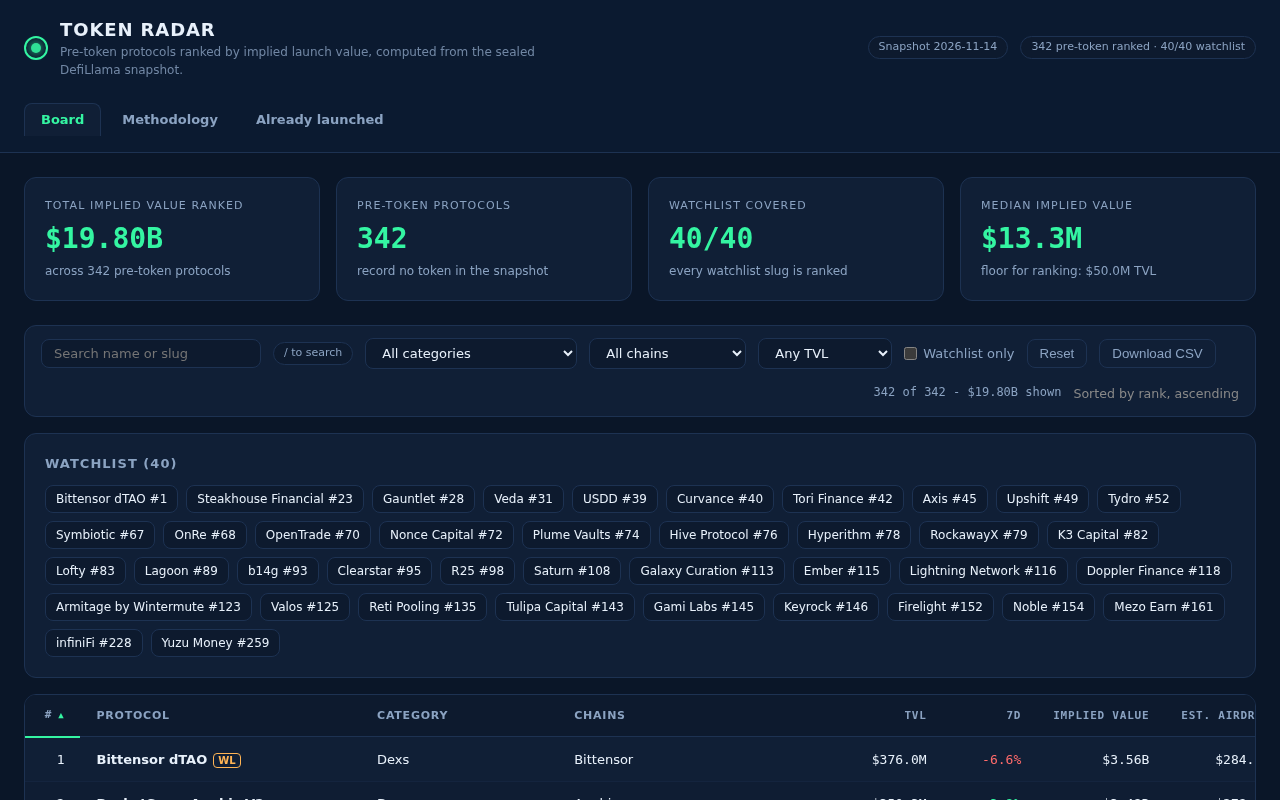
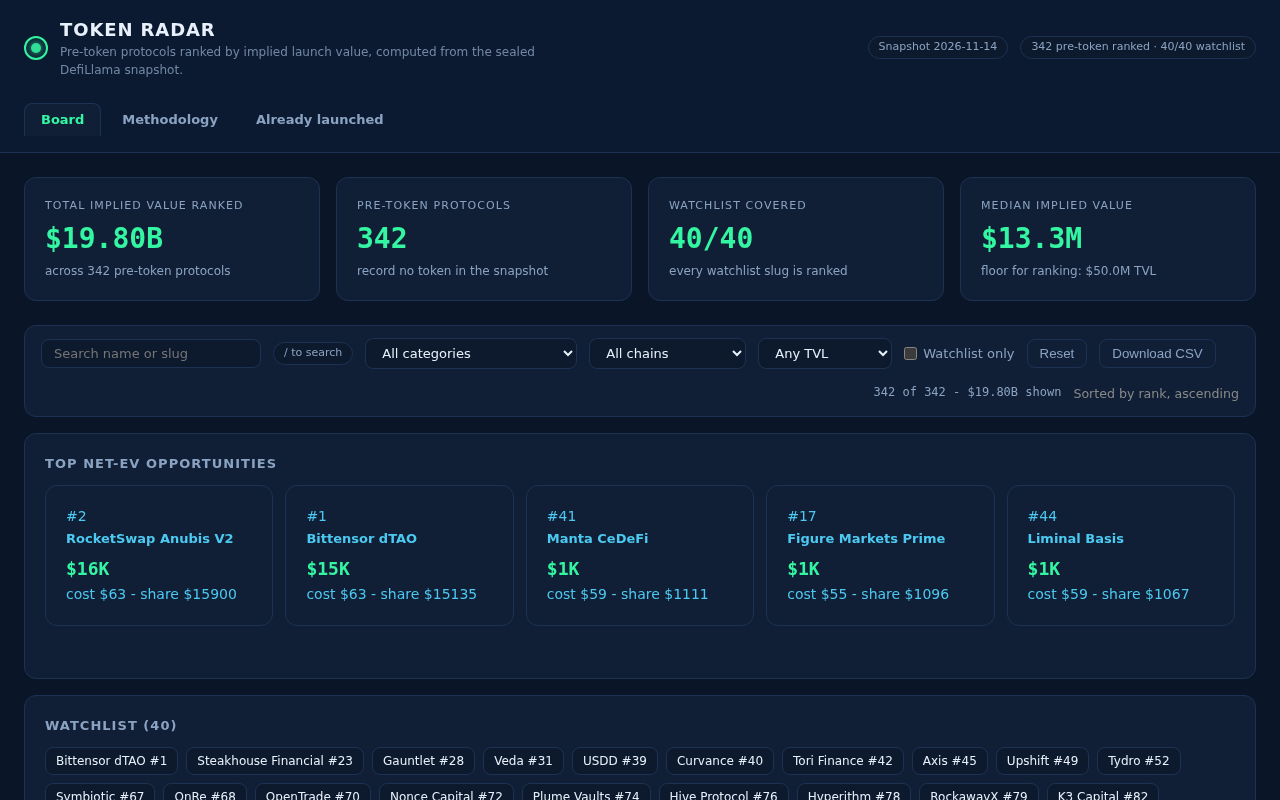
v3: top net-EV opportunities panel + fix bootstrap wiring in radar data + backtest pct display (recorded sessions)

Changed region(s): [[0.0312, 0.5625, 0.9688, 0.8125], [0.0312, 0.8438, 0.9688, 1.0], [0.9375, 0.9375, 0.9688, 0.9688]]

diff --git a/dashboard/app.js b/dashboard/app.js
@@ -157,13 +157,25 @@
       '<div id="f-sort-caption" style="margin-top:4px;font-size:0.9em;color:#888;"></div>' +
       '</div>';
 
+    var topEV = D.rows.slice().sort(SORTS.net_ev_usd).slice(0, 5);
+    var evPanel = '<div class="panel"><h3>Top net-EV opportunities</h3><div class="ev-cards">' +
+      topEV.map(function(r) {
+        var fc = r.farm_cost || {};
+        return '<a href="#/protocol/' + esc(r.slug) + '" class="panel ev-card">' +
+          '<div class="s-label">#' + r.rank + '</div>' +
+          '<div class="name">' + esc(r.name) + '</div>' +
+          '<div class="ev-pos" style="font-size:18px;font-family:var(--mono);font-weight:600;">' + fmtUSD(r.net_ev_usd) + '</div>' +
+          '<div class="s-label">cost $' + Math.round(fc.total_usd || 0) + ' - share $' + Math.round(r.est_farmer_airdrop_usd || 0) + '</div>' +
+          '</a>';
+      }).join('') + '</div></div>';
+
     var wl = D.rows.filter(function(r) { return r.watchlist; }).sort(function(a,b) { return a.rank - b.rank; });
     var wlPanel = '<div class="panel"><h3>Watchlist (' + D.watchlist_size + ')</h3><div style="display:flex;flex-wrap:wrap;gap:8px;margin-top:8px;">' +
       wl.map(function(r) {
         return '<a href="#/protocol/' + esc(r.slug) + '" class="mini-chip">' + esc(r.name) + ' #' + r.rank + '</a>';
       }).join('') + '</div></div>';
 
-    view.innerHTML = kpis + filters + wlPanel + '<div class="tablewrap"><table class="board"><thead><tr>' +
+    view.innerHTML = kpis + filters + evPanel + wlPanel + '<div class="tablewrap"><table class="board"><thead><tr>' +
       '<th data-sort="rank" class="num">#</th>' +
       '<th data-sort="name">Protocol</th>' +
       '<th data-sort="category">Category</th>' +
@@ -396,8 +408,8 @@
       '<ul><li>Fit count: ' + bt.fit_count + '</li>' +
       '<li>Test count: ' + bt.test_count + '</li>' +
       '<li>Median abs log10 error: ' + bt.median_abs_log10_error.toFixed(3) + '</li>' +
-      '<li>Within 2x: ' + (bt.within_2x_pct * 100).toFixed(1) + '%</li>' +
-      '<li>Within 5x: ' + (bt.within_5x_pct * 100).toFixed(1) + '%</li></ul></div>' +
+      '<li>Within 2x: ' + bt.within_2x_pct.toFixed(1) + '%</li>' +
+      '<li>Within 5x: ' + bt.within_5x_pct.toFixed(1) + '%</li></ul></div>' +
       '<div class="panel"><h3>Category curves (' + Object.keys(D.category_curves).length + ' categories)</h3>' +
       '<table class="plain"><thead><tr><th>Category</th><th class="num">Examples</th><th class="num">Slope b</th><th class="num">Intercept a</th><th>Basis</th></tr></thead><tbody>' +
       rows + '</tbody></table></div>' +

diff --git a/dashboard/app.css b/dashboard/app.css
@@ -69,6 +69,11 @@ table.board tbody tr:focus-visible{outline:2px solid var(--accent);outline-offse
 .conf::before{content:"";width:8px;height:8px;border-radius:50%}
 .conf.high::before{background:var(--accent)} .conf.medium::before{background:var(--amber)} .conf.low::before{background:var(--red)}
 
+.ev-cards { display: grid; grid-template-columns: repeat(5, 1fr); gap: 12px; margin-bottom: 16px; }
+.ev-card { padding: 12px; display: flex; flex-direction: column; gap: 2px; }
+.ev-card:hover { border-color: var(--accent); }
+.ev-card .name { font-weight: 600; font-size: 13px; margin-bottom: 4px; white-space: nowrap; overflow: hidden; text-overflow: ellipsis; }
+
 .hero,.panel{scroll-margin-top:80px}
 .hero{background:var(--panel);border:1px solid var(--line);border-radius:12px;padding:24px;margin-bottom:16px}
 .hero .crumbs{margin-bottom:12px;font-size:13px;opacity:.7}

diff --git a/lib/model.ts b/lib/model.ts
@@ -751,6 +751,7 @@ export function buildRadar(snapshot: Snapshot): { board: BoardRow[]; radar: Rada
     stats,
     rows: board,
     live,
+    bootstrap,
     backtest,
   };
 
